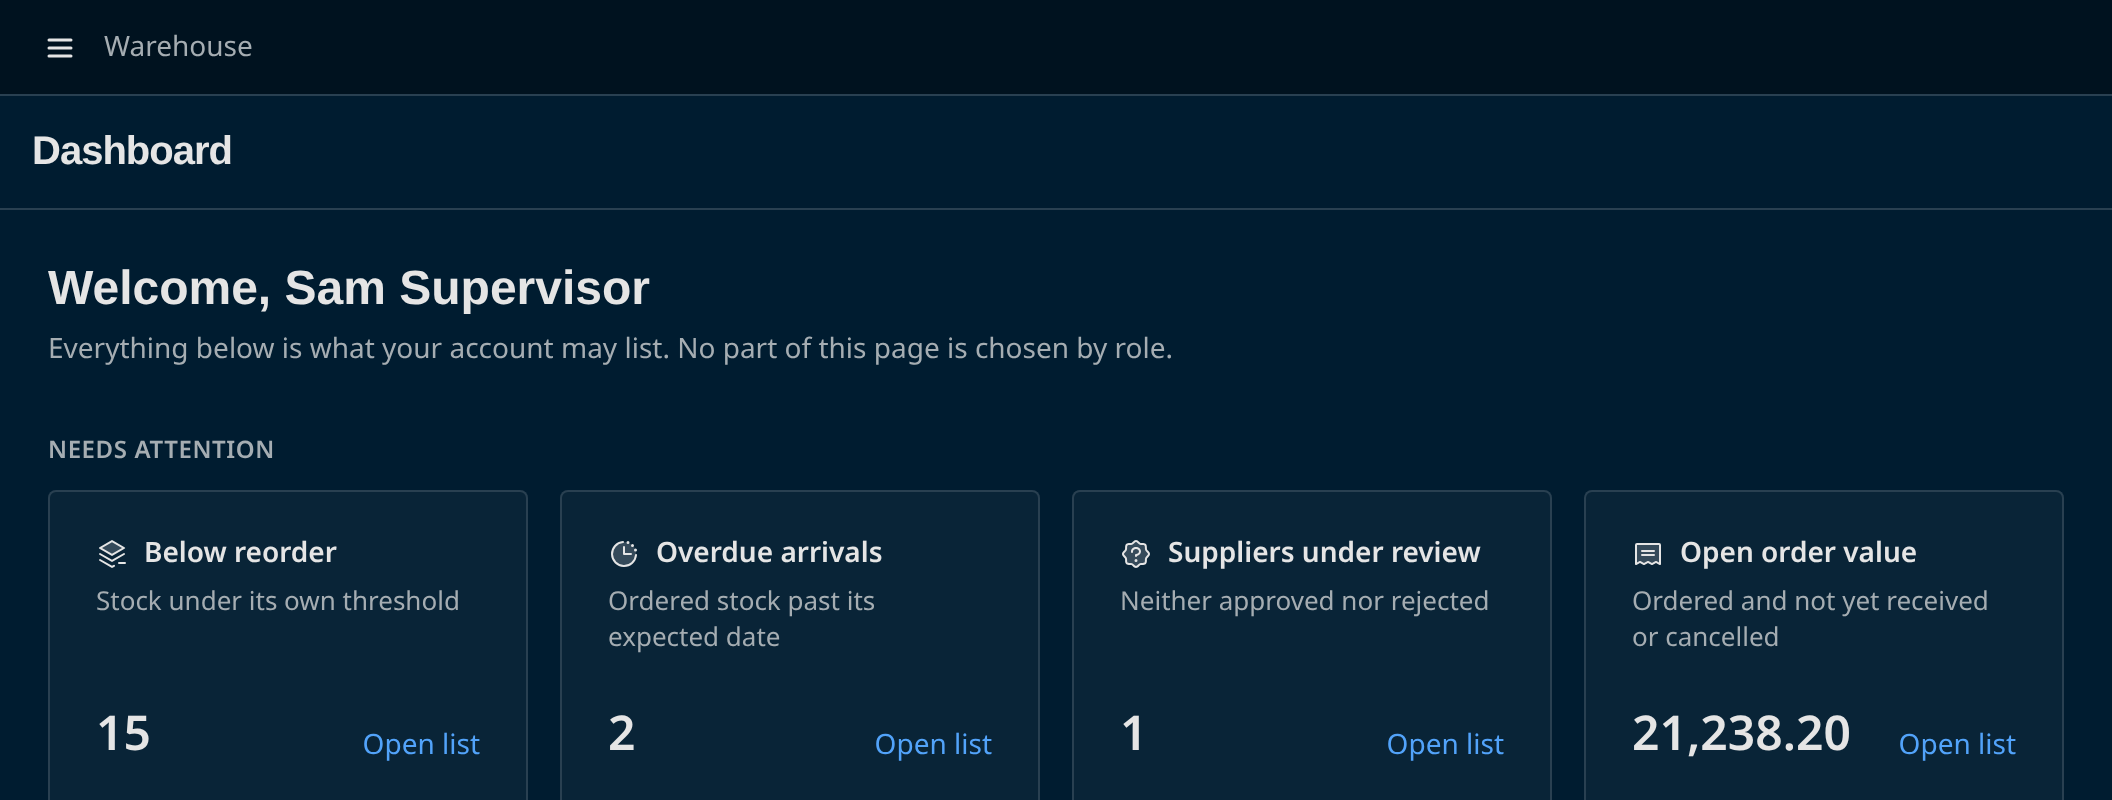
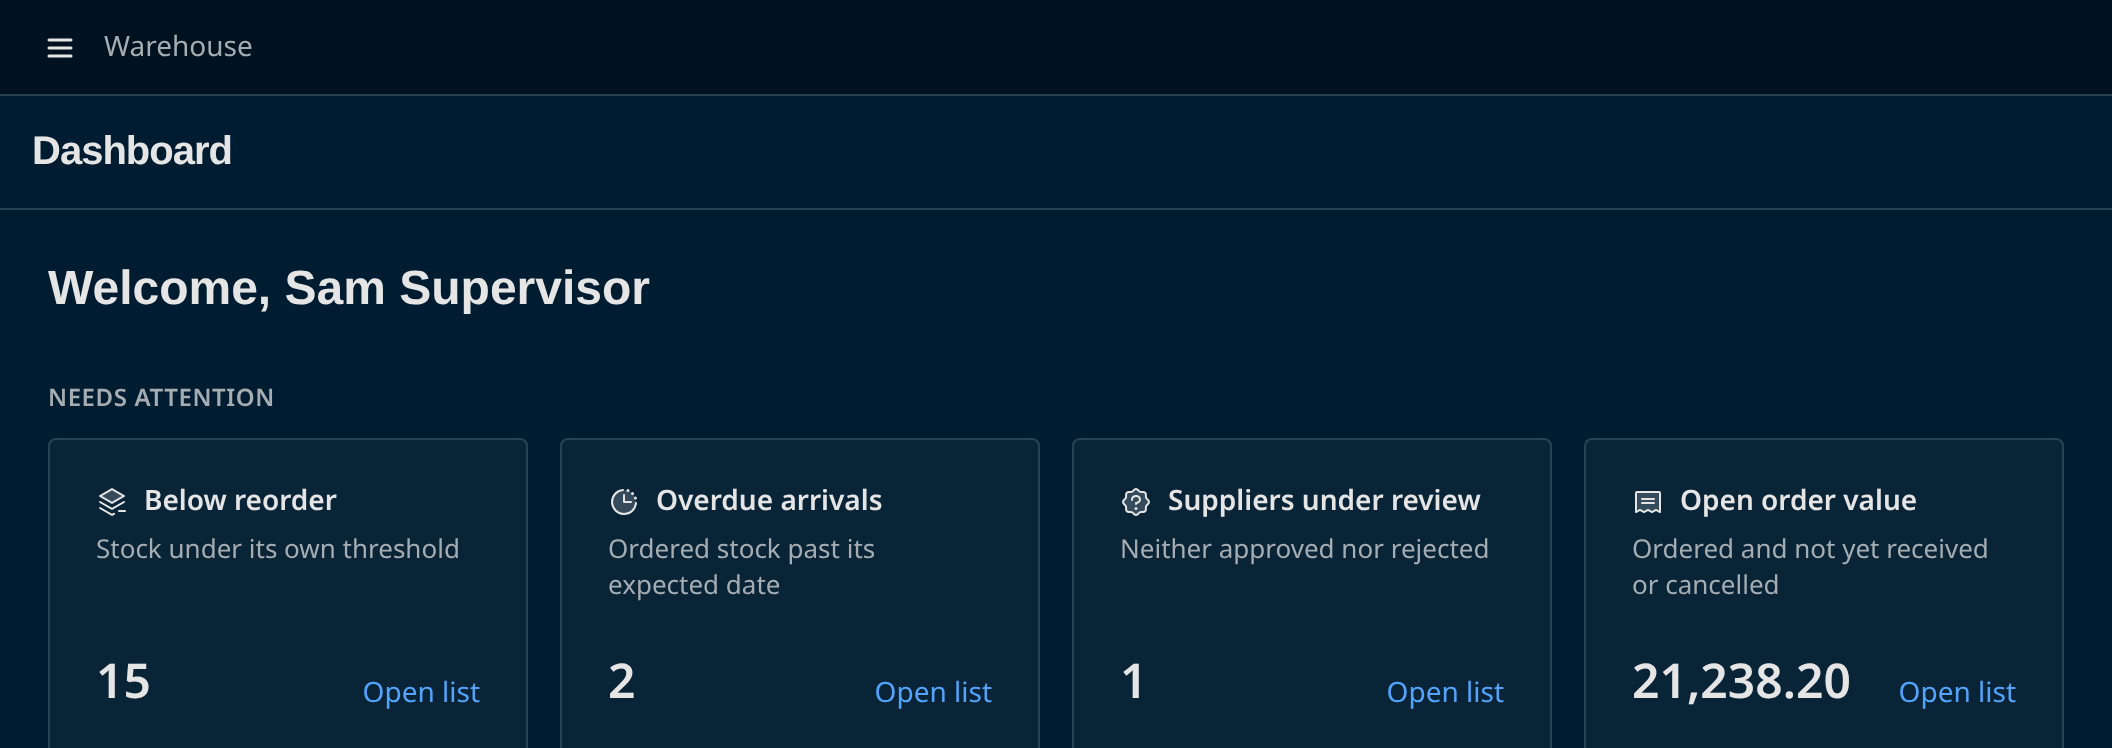
docs(homepage): trim screenshot distractions and hide hero arrow from screen readers
Cut the action bar from the generated form screenshots and the account
note from the dashboard screenshots, and update their dimensions.

Render the Start building arrow as CSS generated content with empty alt
text, so screen readers announce only the label. Set each homepage
grid's columns and gap in one rule.

diff --git a/docs/.vitepress/theme/components/HomePage.vue b/docs/.vitepress/theme/components/HomePage.vue
@@ -30,7 +30,7 @@ import { withBase } from "vitepress";
                     <h3><span class="step-number" aria-hidden="true">3.</span>Get application screens</h3>
                     <p>The Vue client uses that metadata to generate routes, forms, lists, and detail views.</p>
                     <div class="step-visual step-image">
-                        <!-- Temporary screenshot. Replace once the generated form's action labels and workflow fields are cleaned up. -->
+                        <!-- Temporary screenshot with the action bar cut out. Replace once the generated form's action labels and workflow fields are cleaned up. -->
                         <img
                             v-for="theme in ['light', 'dark']"
                             :key="theme"
@@ -38,7 +38,7 @@ import { withBase } from "vitepress";
                             :src="withBase(`/assets/homepage-generated-form-${theme}.png`)"
                             alt="Generated purchase order form with reference, supplier, warehouse, and date fields above editable order lines."
                             width="876"
-                            height="568"
+                            height="515"
                             loading="lazy"
                         />
                     </div>
@@ -94,7 +94,7 @@ import { withBase } from "vitepress";
                             :src="withBase(`/assets/homepage-custom-dashboard-${theme}.png`)"
                             alt="Custom Widget Warehouse dashboard with a welcome message and summary cards for stock below reorder level, overdue arrivals, suppliers under review, and open order value."
                             width="1056"
-                            height="400"
+                            height="374"
                             loading="lazy"
                         />
                     </div>
@@ -213,11 +213,11 @@ h2 {
 .steps,
 .feature-grid {
     display: grid;
-    grid-template-columns: repeat(3, minmax(0, 1fr));
-    gap: 2rem;
     margin-top: 2.25rem;
 }
 .steps {
+    grid-template-columns: repeat(3, minmax(0, 1fr));
+    gap: 2rem;
     padding: 0;
     list-style: none;
 }
@@ -271,7 +271,7 @@ h2 {
     line-height: 1.55;
 }
 .step-image {
-    aspect-ratio: 876 / 568;
+    aspect-ratio: 876 / 515;
 }
 .step-image img,
 .feature-image img {
@@ -305,6 +305,7 @@ h3 {
     font-size: 0.875rem;
 }
 .feature-grid {
+    grid-template-columns: repeat(2, minmax(0, 1fr));
     gap: 1rem;
 }
 .feature-grid article {
@@ -318,9 +319,6 @@ h3 {
 }
 .feature-grid p {
     flex-grow: 1;
-}
-.feature-grid {
-    grid-template-columns: repeat(2, minmax(0, 1fr));
 }
 .feature-grid .feature-wide {
     display: grid;
@@ -338,7 +336,7 @@ h3 {
     overflow: hidden;
     border: 0.0625rem solid var(--vp-c-divider);
     border-radius: 0.375rem;
-    aspect-ratio: 1056 / 400;
+    aspect-ratio: 1056 / 374;
 }
 .get-started {
     display: flex;
@@ -439,5 +437,13 @@ a:focus-visible {
     .feature-grid article {
         padding: 1.5rem;
     }
+}
+</style>
+
+<style>
+/* The hero renders outside this component. The empty alt text keeps screen readers from announcing the arrow. */
+.arrai-wide-home .VPHero .VPButton.brand::after {
+    content: "→" / "";
+    margin-left: 1rem;
 }
 </style>

diff --git a/docs/index.md b/docs/index.md
@@ -15,7 +15,7 @@ hero:
     note: To try the demo, choose an account on its sign-in page.
     actions:
         - theme: brand
-          text: Start building →
+          text: Start building
           link: /tutorials/start-building.html
         - theme: alt
           text: Try the live demo
